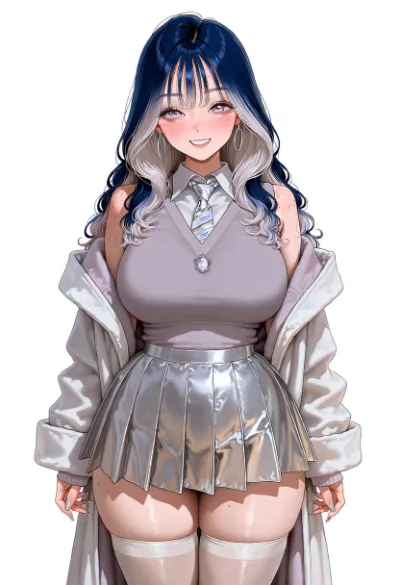
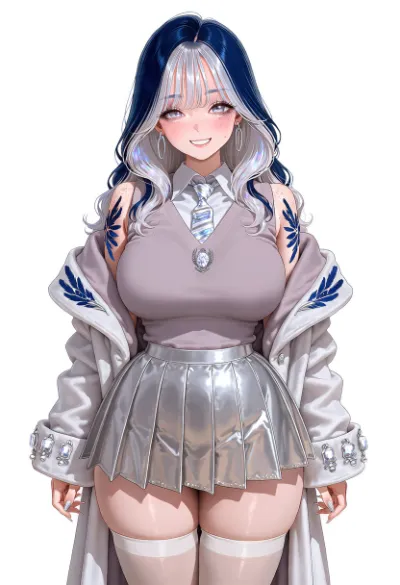
2.88: Crow upgraded (her hidden grown-up base now follows her look)

diff --git a/js/part-13.js b/js/part-13.js
@@ -434,6 +434,8 @@ manticore:["claw-mark","manticores and flames","a roaring manticore","bronze-stu
 /* ---- v242: a girl's look saved to canon (edits.looks) replaces her robes design here, after every wave has made its
    templates and before anything reads them. ---- */
 if(typeof ACAD!=="undefined"&&ACAD.canonApply&&typeof tplById==="function")ACAD.canonApply("looks",tplById);
+/* 2026-11-26: Crow's hidden grown-up base ("crowbody", part-05) follows her final robes look; it keeps only its own face and makeup. */
+if(typeof tplById==="function"){const cr=tplById("crowrobes"),cb=tplById("crowbody");if(cr&&cb){const own=Object.fromEntries(Object.entries(cb.c||{}).filter(([f])=>/^(faceShape|makeupStyle|lashStyle|blushStyle)$/.test(f)));cb.pal=JSON.parse(JSON.stringify(cr.pal||{}));cb.c=Object.assign({},JSON.parse(JSON.stringify(cr.c||{})),own);cb.outfit=JSON.parse(JSON.stringify(cr.outfit||{}))}}
 
 /* ---- v215: every Academy girl's relationships, the one source for the biographies and the relationship scenes
    (best friends, secret girlfriends, rivals). Read by buddies215.js and groups215.js; checked by audit/rel215.py. */

diff --git a/index.html b/index.html
@@ -533,7 +533,7 @@ button,.btn,.chip,.opt,.rail-btn,.pick,.seg button,.tabs button,.swb,.start,labe
 <script src="js/data-whitecouch.js?v=f954eb71"></script>
 <script src="js/data-publicsex.js?v=8d439cb3"></script>
 <script src="js/data-cutiesx.js?v=d4169e25"></script>
-<script src="js/part-13.js?v=56e2a4ad"></script>
+<script src="js/part-13.js?v=d09babb1"></script>
 <script src="js/data-scene-ident.js?v=c4164388"></script>
 <script src="js/blk-cast.js?v=490afdf4"></script>
 <script src="js/part-14.js?v=34c96394"></script>
@@ -586,7 +586,7 @@ button,.btn,.chip,.opt,.rail-btn,.pick,.seg button,.tabs button,.swb,.start,labe
 <script src="js/blk-groups2.js?v=1097e6ea"></script>
 <script src="js/blk-ux.js?v=7a29790b"></script>
 <script src="js/blk-intimate.js?v=72bb5f3e"></script>
-<script src="js/ev-version.js?v=59b07793"></script>
+<script src="js/ev-version.js?v=7e60a11c"></script>
 <script src="js/part-22.js?v=9e08a57f"></script>
 </body>
 </html>

diff --git a/js/ev-version.js b/js/ev-version.js
@@ -1,6 +1,6 @@
 /* Everspire: the version, shown beside the title in the studio's header. Bump EV_VERSION and EV_DATE before every push.
    (It lived in game-ui.js until the games were archived on 2026-11-17: branch archive/with-games.) */
-const EV_VERSION="2.87",EV_DATE="Nov 26, 2026";
+const EV_VERSION="2.88",EV_DATE="Nov 26, 2026";
 window.EVERSPIRE_VERSION=EV_VERSION;
 (function(){
   const put=()=>{const b=document.querySelector("header.top .brand");if(!b||b.querySelector(".ev-ver"))return;
